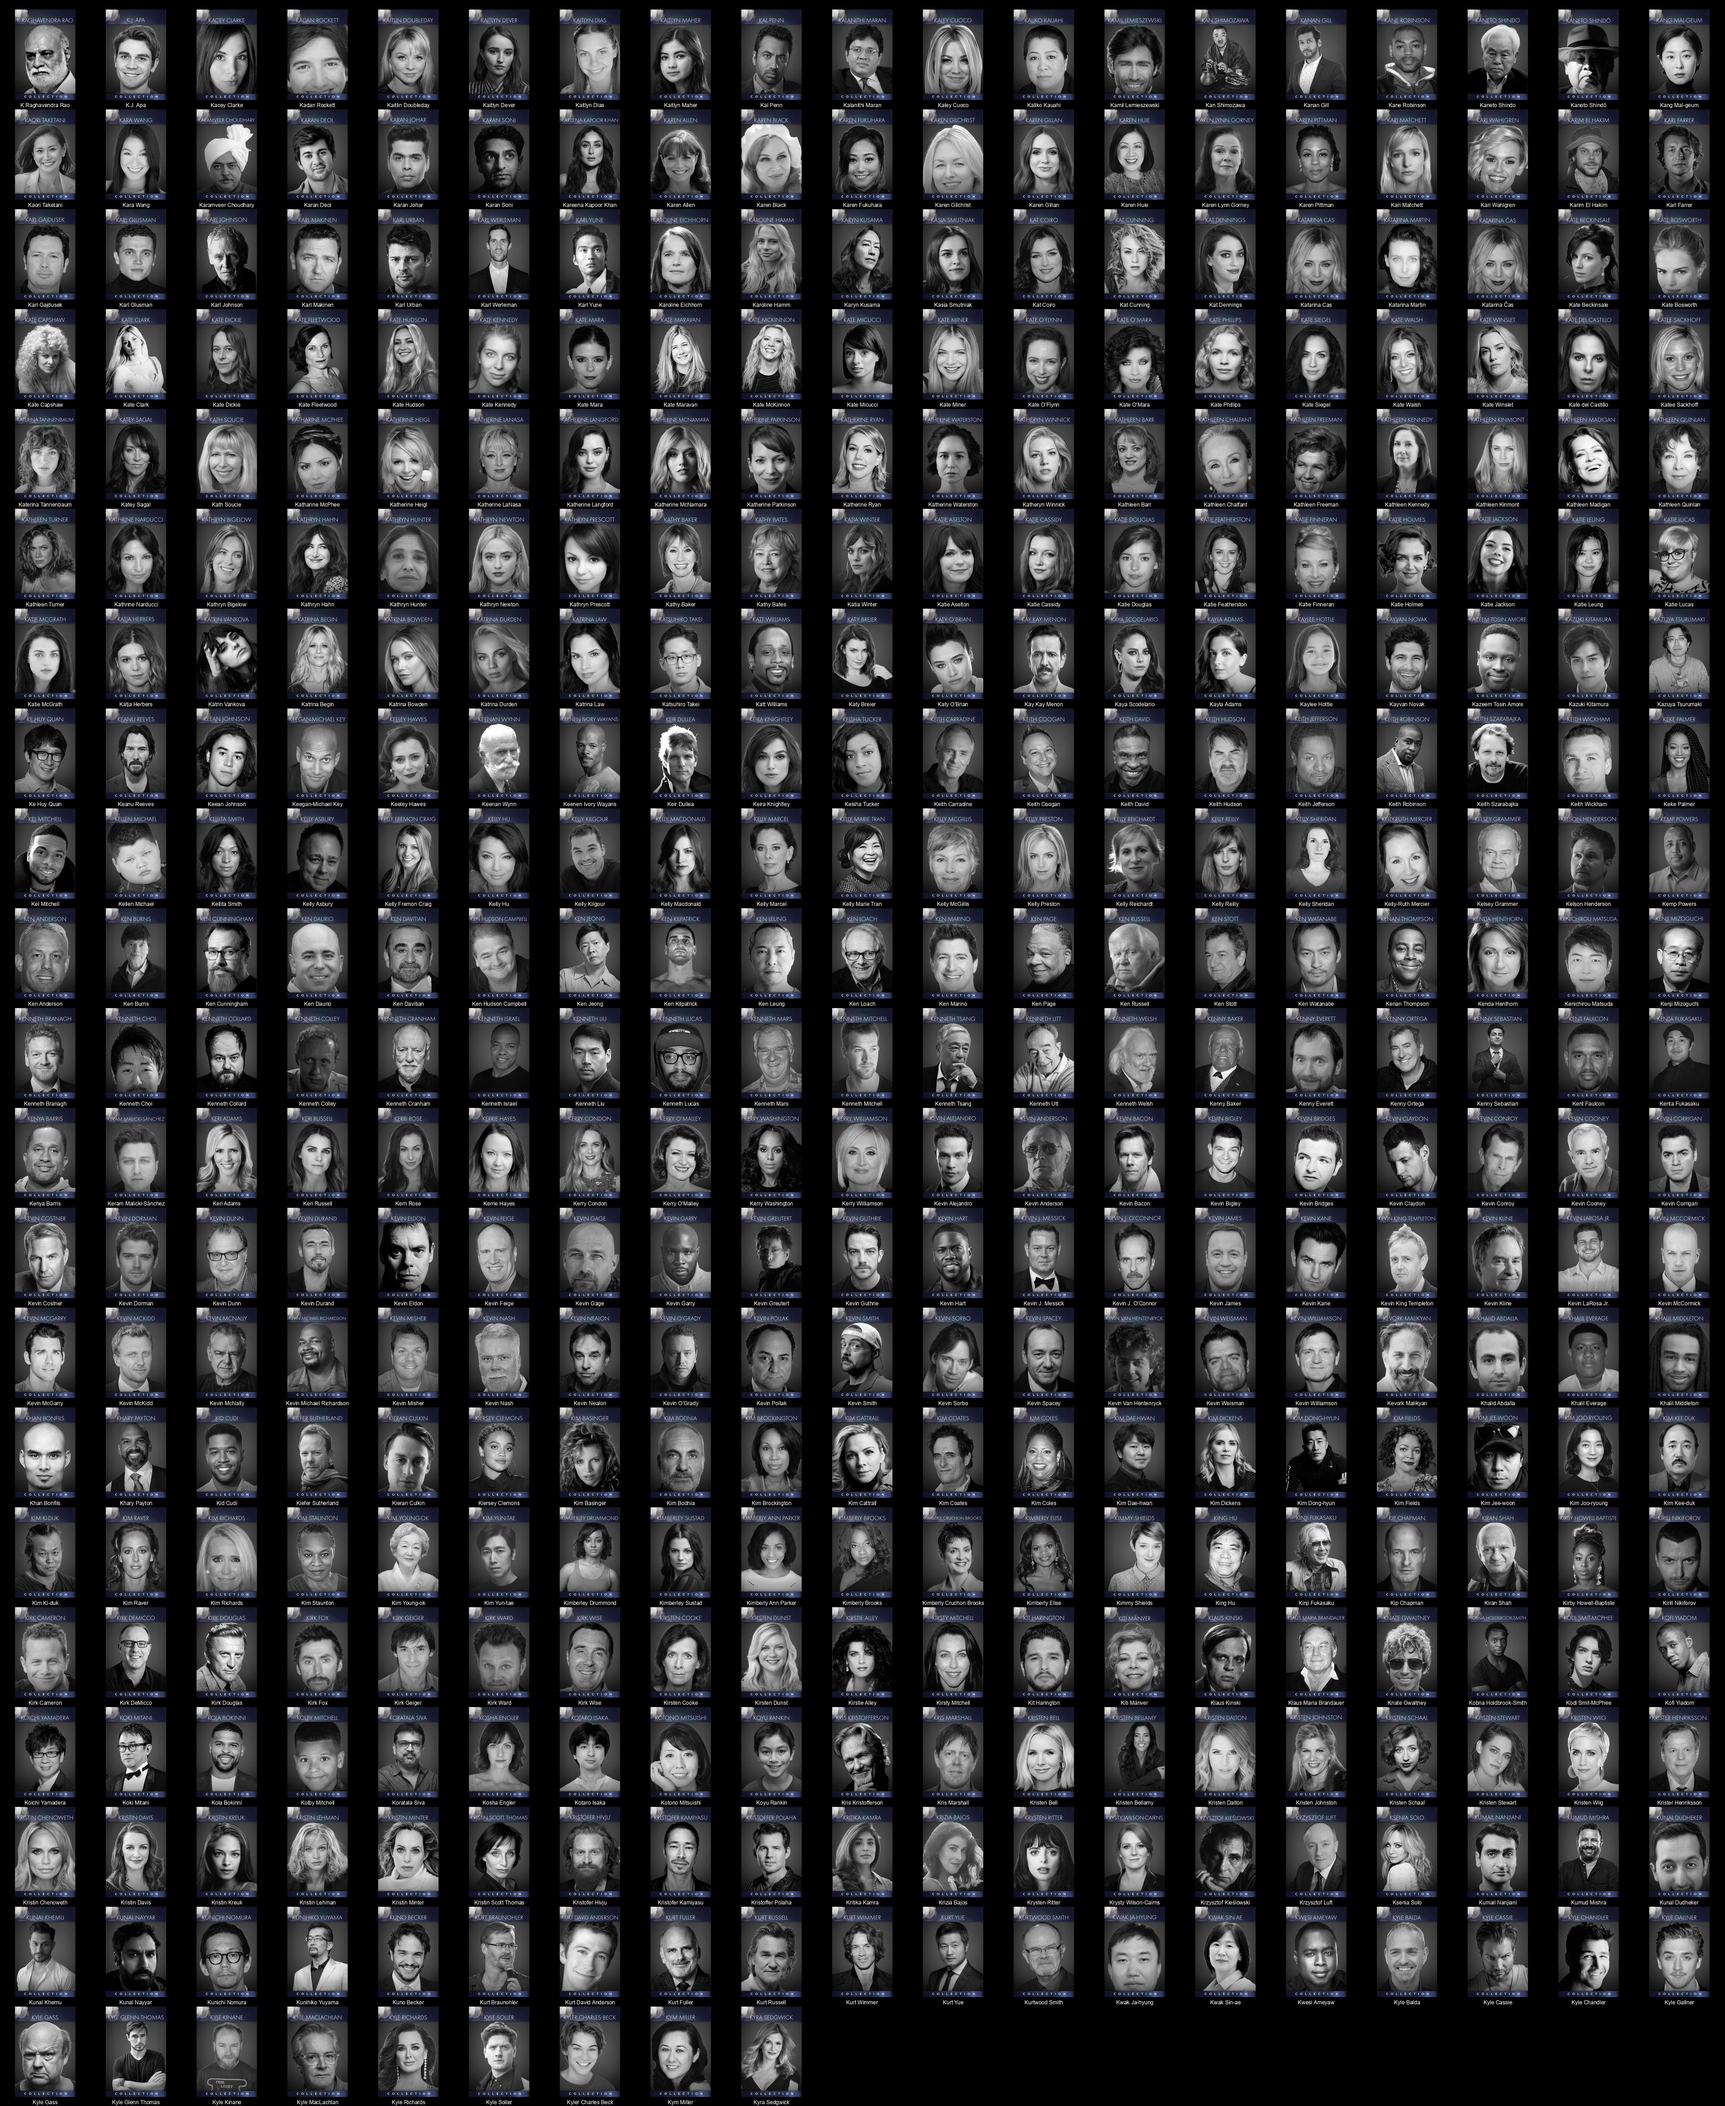
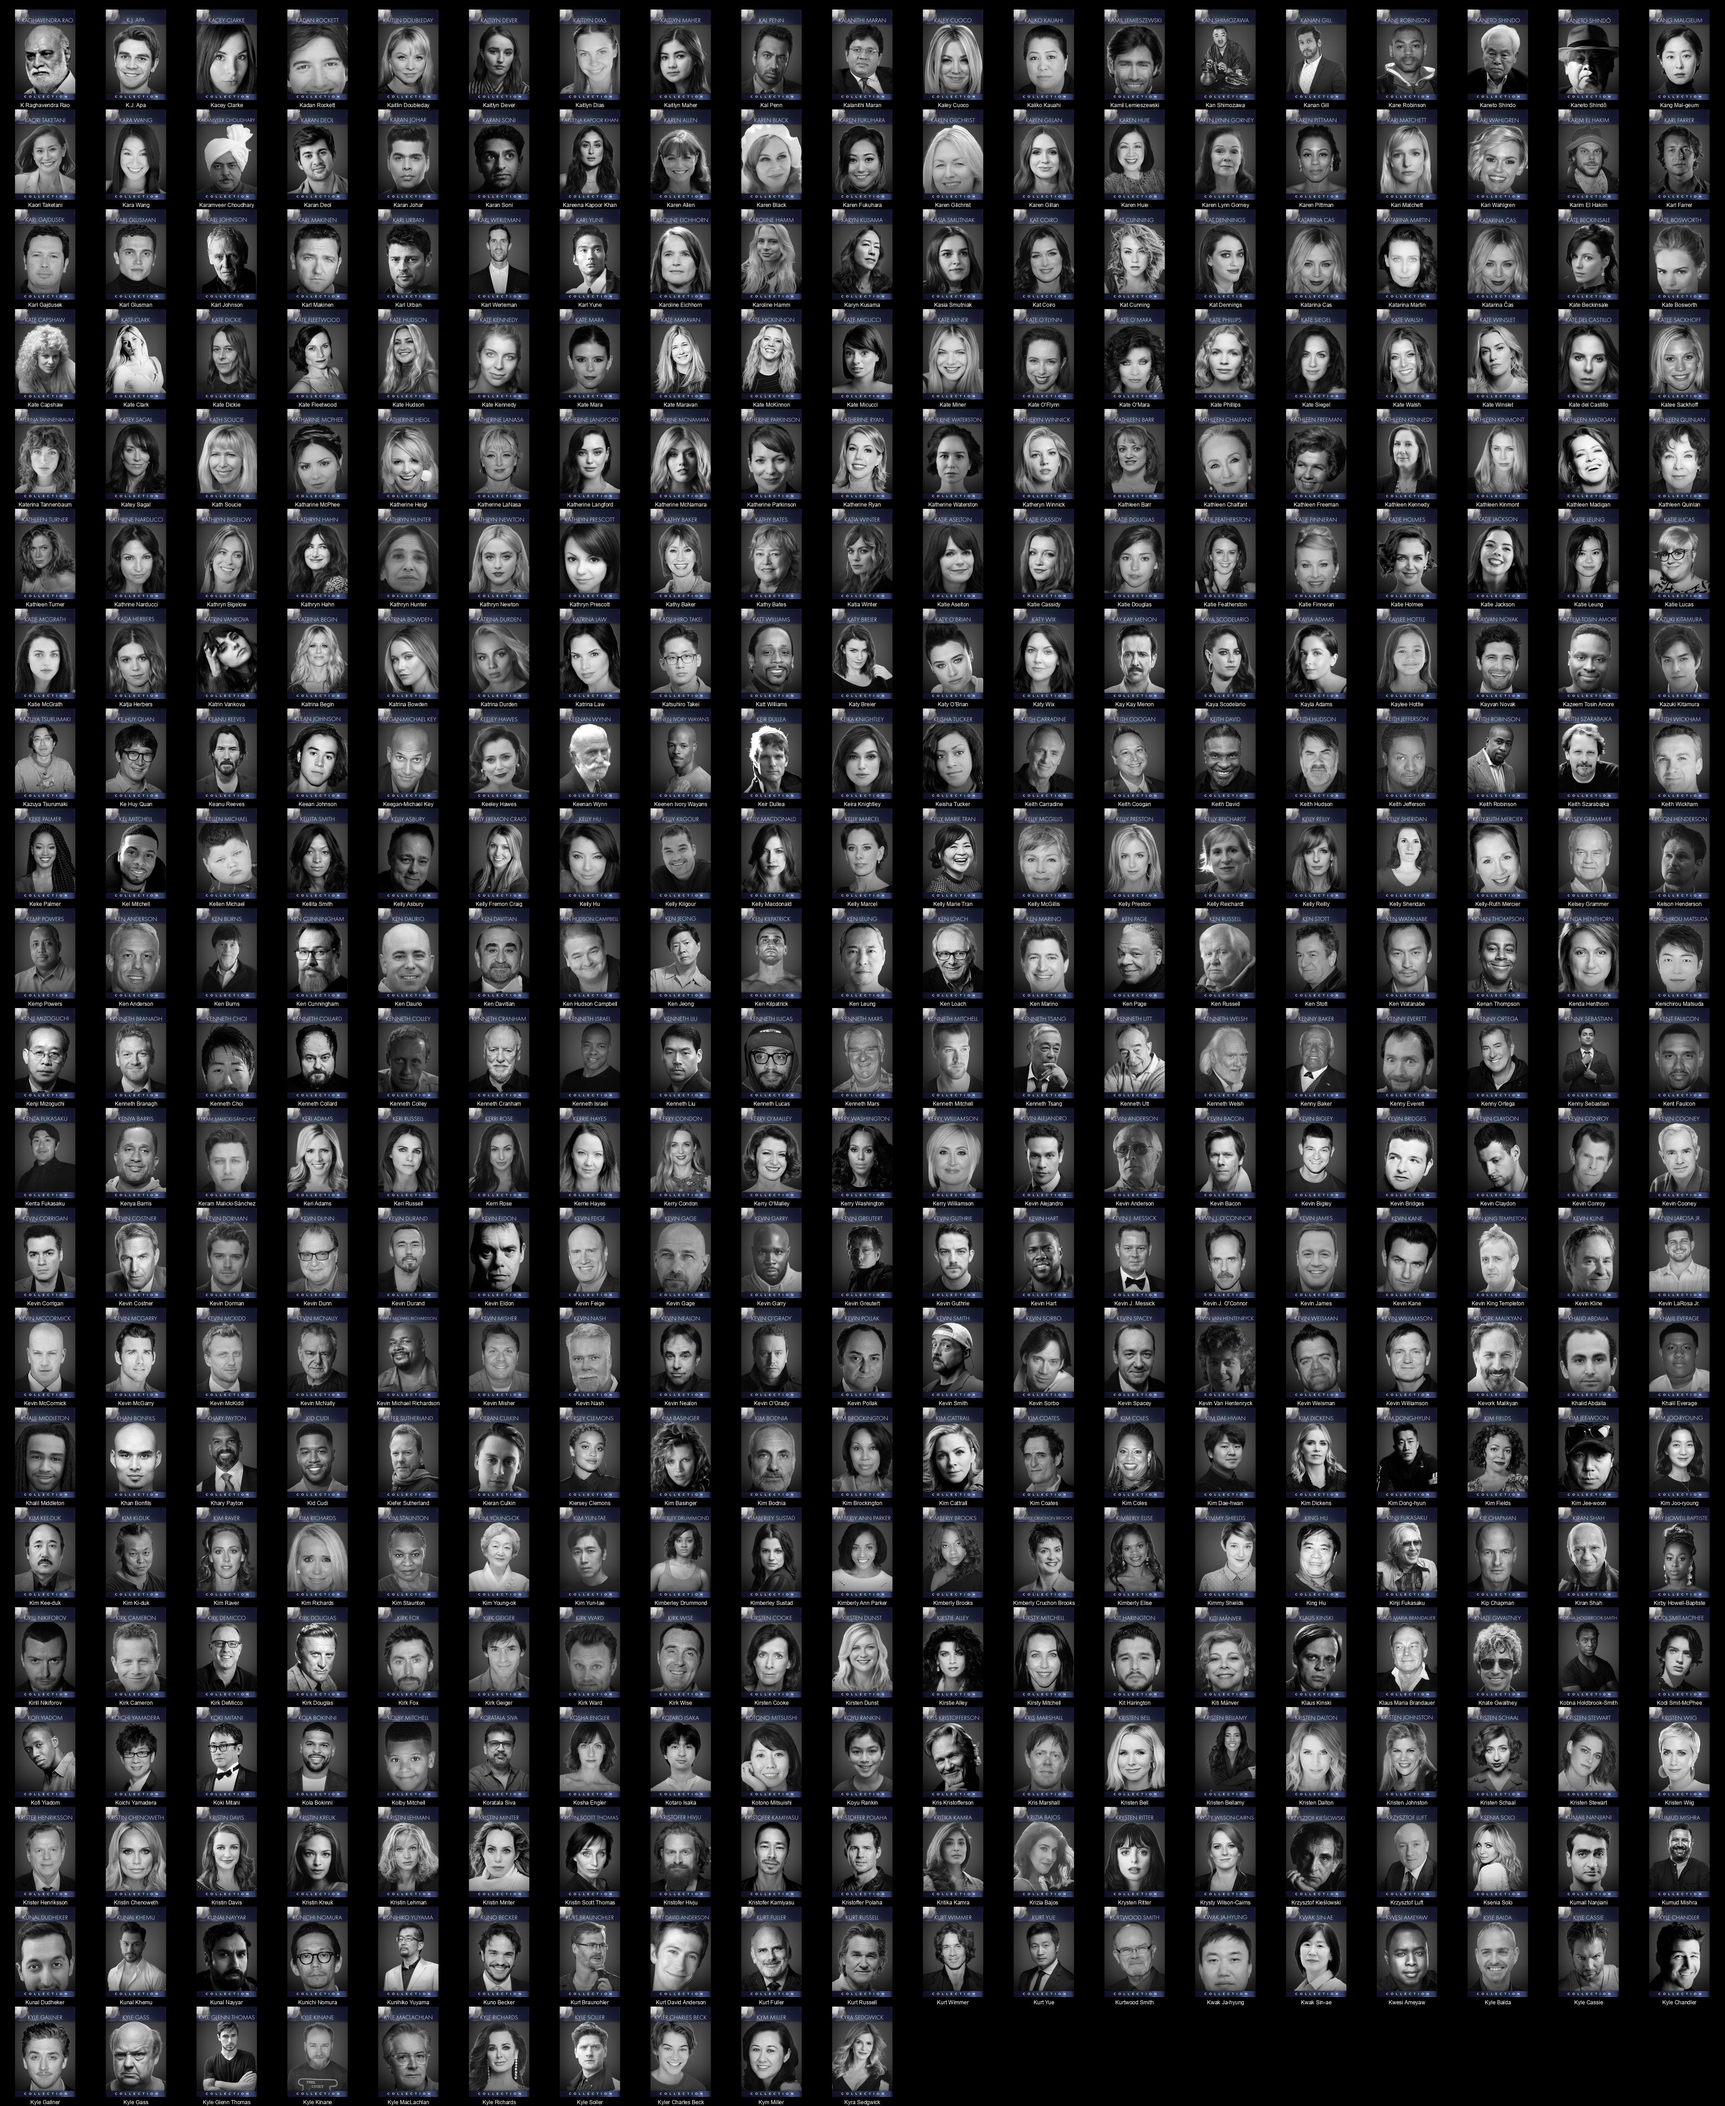
Readme Update

Changed region(s): [[0.0, 0.2812, 0.9937, 1.0]]

diff --git a/README.md b/README.md
@@ -1,4 +1,4 @@
-# Plex Meta Manager People - DIIIVOY (diiivoy) (8699 Images)
+# Plex Meta Manager People - DIIIVOY (diiivoy) (8702 Images)
 
 <details><summary><a href="'">' (1 Images)</a></summary>
 
@@ -2341,7 +2341,7 @@
 * [Débora Nascimento](https://raw.githubusercontent.com/meisnate12/Plex-Meta-Manager-People-diiivoy/master/D/Images/D%C3%A9bora%20Nascimento.jpg)
 * [Díana Bermudez](https://raw.githubusercontent.com/meisnate12/Plex-Meta-Manager-People-diiivoy/master/D/Images/D%C3%ADana%20Bermudez.jpg)
 </details>
-<details><summary><a href="E">E (320 Images)</a></summary>
+<details><summary><a href="E">E (321 Images)</a></summary>
 
 * [E.G. Marshall](https://raw.githubusercontent.com/meisnate12/Plex-Meta-Manager-People-diiivoy/master/E/Images/E.G.%20Marshall.jpg)
 * [E.J. Bonilla](https://raw.githubusercontent.com/meisnate12/Plex-Meta-Manager-People-diiivoy/master/E/Images/E.J.%20Bonilla.jpg)
@@ -2479,6 +2479,7 @@
 * [Elliott Gould](https://raw.githubusercontent.com/meisnate12/Plex-Meta-Manager-People-diiivoy/master/E/Images/Elliott%20Gould.jpg)
 * [Ellory Elkayem](https://raw.githubusercontent.com/meisnate12/Plex-Meta-Manager-People-diiivoy/master/E/Images/Ellory%20Elkayem.jpg)
 * [Elmer Bernstein](https://raw.githubusercontent.com/meisnate12/Plex-Meta-Manager-People-diiivoy/master/E/Images/Elmer%20Bernstein.jpg)
+* [Elodie Yung](https://raw.githubusercontent.com/meisnate12/Plex-Meta-Manager-People-diiivoy/master/E/Images/Elodie%20Yung.jpg)
 * [Eloise Mumford](https://raw.githubusercontent.com/meisnate12/Plex-Meta-Manager-People-diiivoy/master/E/Images/Eloise%20Mumford.jpg)
 * [Elsa Raven](https://raw.githubusercontent.com/meisnate12/Plex-Meta-Manager-People-diiivoy/master/E/Images/Elsa%20Raven.jpg)
 * [Elsie Fisher](https://raw.githubusercontent.com/meisnate12/Plex-Meta-Manager-People-diiivoy/master/E/Images/Elsie%20Fisher.jpg)
@@ -4522,7 +4523,7 @@
 * [Jürgen Prochnow](https://raw.githubusercontent.com/meisnate12/Plex-Meta-Manager-People-diiivoy/master/J/Images/J%C3%BCrgen%20Prochnow.jpg)
 * [Jūzō Itami](https://raw.githubusercontent.com/meisnate12/Plex-Meta-Manager-People-diiivoy/master/J/Images/J%C5%ABz%C5%8D%20Itami.jpg)
 </details>
-<details><summary><a href="K">K (389 Images)</a></summary>
+<details><summary><a href="K">K (390 Images)</a></summary>
 
 * [K Raghavendra Rao](https://raw.githubusercontent.com/meisnate12/Plex-Meta-Manager-People-diiivoy/master/K/Images/K%20Raghavendra%20Rao.jpg)
 * [K.J. Apa](https://raw.githubusercontent.com/meisnate12/Plex-Meta-Manager-People-diiivoy/master/K/Images/K.J.%20Apa.jpg)
@@ -4649,6 +4650,7 @@
 * [Katt Williams](https://raw.githubusercontent.com/meisnate12/Plex-Meta-Manager-People-diiivoy/master/K/Images/Katt%20Williams.jpg)
 * [Katy Breier](https://raw.githubusercontent.com/meisnate12/Plex-Meta-Manager-People-diiivoy/master/K/Images/Katy%20Breier.jpg)
 * [Katy O'Brian](https://raw.githubusercontent.com/meisnate12/Plex-Meta-Manager-People-diiivoy/master/K/Images/Katy%20O%27Brian.jpg)
+* [Katy Wix](https://raw.githubusercontent.com/meisnate12/Plex-Meta-Manager-People-diiivoy/master/K/Images/Katy%20Wix.jpg)
 * [Kay Kay Menon](https://raw.githubusercontent.com/meisnate12/Plex-Meta-Manager-People-diiivoy/master/K/Images/Kay%20Kay%20Menon.jpg)
 * [Kaya Scodelario](https://raw.githubusercontent.com/meisnate12/Plex-Meta-Manager-People-diiivoy/master/K/Images/Kaya%20Scodelario.jpg)
 * [Kayla Adams](https://raw.githubusercontent.com/meisnate12/Plex-Meta-Manager-People-diiivoy/master/K/Images/Kayla%20Adams.jpg)
@@ -4914,7 +4916,7 @@
 * [Kym Miller](https://raw.githubusercontent.com/meisnate12/Plex-Meta-Manager-People-diiivoy/master/K/Images/Kym%20Miller.jpg)
 * [Kyra Sedgwick](https://raw.githubusercontent.com/meisnate12/Plex-Meta-Manager-People-diiivoy/master/K/Images/Kyra%20Sedgwick.jpg)
 </details>
-<details><summary><a href="L">L (381 Images)</a></summary>
+<details><summary><a href="L">L (382 Images)</a></summary>
 
 * [L. Q. Jones](https://raw.githubusercontent.com/meisnate12/Plex-Meta-Manager-People-diiivoy/master/L/Images/L.%20Q.%20Jones.jpg)
 * [LL Cool J](https://raw.githubusercontent.com/meisnate12/Plex-Meta-Manager-People-diiivoy/master/L/Images/LL%20Cool%20J.jpg)
@@ -5278,6 +5280,7 @@
 * [Luke Kirby](https://raw.githubusercontent.com/meisnate12/Plex-Meta-Manager-People-diiivoy/master/L/Images/Luke%20Kirby.jpg)
 * [Luke Macfarlane](https://raw.githubusercontent.com/meisnate12/Plex-Meta-Manager-People-diiivoy/master/L/Images/Luke%20Macfarlane.jpg)
 * [Luke Mitchell](https://raw.githubusercontent.com/meisnate12/Plex-Meta-Manager-People-diiivoy/master/L/Images/Luke%20Mitchell.jpg)
+* [Luke Pasqualino](https://raw.githubusercontent.com/meisnate12/Plex-Meta-Manager-People-diiivoy/master/L/Images/Luke%20Pasqualino.jpg)
 * [Luke Perry](https://raw.githubusercontent.com/meisnate12/Plex-Meta-Manager-People-diiivoy/master/L/Images/Luke%20Perry.jpg)
 * [Luke Roberts](https://raw.githubusercontent.com/meisnate12/Plex-Meta-Manager-People-diiivoy/master/L/Images/Luke%20Roberts.jpg)
 * [Luke Wilson](https://raw.githubusercontent.com/meisnate12/Plex-Meta-Manager-People-diiivoy/master/L/Images/Luke%20Wilson.jpg)

diff --git a/K/README.md b/K/README.md
@@ -1,4 +1,4 @@
-# Plex Meta Manager People - DIIIVOY (diiivoy) - K (389 Images)
+# Plex Meta Manager People - DIIIVOY (diiivoy) - K (390 Images)
 ![Grid](grid.jpg)
 
 * [K Raghavendra Rao](https://raw.githubusercontent.com/meisnate12/Plex-Meta-Manager-People-diiivoy/master/K/Images/K%20Raghavendra%20Rao.jpg)
@@ -126,6 +126,7 @@
 * [Katt Williams](https://raw.githubusercontent.com/meisnate12/Plex-Meta-Manager-People-diiivoy/master/K/Images/Katt%20Williams.jpg)
 * [Katy Breier](https://raw.githubusercontent.com/meisnate12/Plex-Meta-Manager-People-diiivoy/master/K/Images/Katy%20Breier.jpg)
 * [Katy O'Brian](https://raw.githubusercontent.com/meisnate12/Plex-Meta-Manager-People-diiivoy/master/K/Images/Katy%20O%27Brian.jpg)
+* [Katy Wix](https://raw.githubusercontent.com/meisnate12/Plex-Meta-Manager-People-diiivoy/master/K/Images/Katy%20Wix.jpg)
 * [Kay Kay Menon](https://raw.githubusercontent.com/meisnate12/Plex-Meta-Manager-People-diiivoy/master/K/Images/Kay%20Kay%20Menon.jpg)
 * [Kaya Scodelario](https://raw.githubusercontent.com/meisnate12/Plex-Meta-Manager-People-diiivoy/master/K/Images/Kaya%20Scodelario.jpg)
 * [Kayla Adams](https://raw.githubusercontent.com/meisnate12/Plex-Meta-Manager-People-diiivoy/master/K/Images/Kayla%20Adams.jpg)

diff --git a/E/README.md b/E/README.md
@@ -1,4 +1,4 @@
-# Plex Meta Manager People - DIIIVOY (diiivoy) - E (320 Images)
+# Plex Meta Manager People - DIIIVOY (diiivoy) - E (321 Images)
 ![Grid](grid.jpg)
 
 * [E.G. Marshall](https://raw.githubusercontent.com/meisnate12/Plex-Meta-Manager-People-diiivoy/master/E/Images/E.G.%20Marshall.jpg)
@@ -137,6 +137,7 @@
 * [Elliott Gould](https://raw.githubusercontent.com/meisnate12/Plex-Meta-Manager-People-diiivoy/master/E/Images/Elliott%20Gould.jpg)
 * [Ellory Elkayem](https://raw.githubusercontent.com/meisnate12/Plex-Meta-Manager-People-diiivoy/master/E/Images/Ellory%20Elkayem.jpg)
 * [Elmer Bernstein](https://raw.githubusercontent.com/meisnate12/Plex-Meta-Manager-People-diiivoy/master/E/Images/Elmer%20Bernstein.jpg)
+* [Elodie Yung](https://raw.githubusercontent.com/meisnate12/Plex-Meta-Manager-People-diiivoy/master/E/Images/Elodie%20Yung.jpg)
 * [Eloise Mumford](https://raw.githubusercontent.com/meisnate12/Plex-Meta-Manager-People-diiivoy/master/E/Images/Eloise%20Mumford.jpg)
 * [Elsa Raven](https://raw.githubusercontent.com/meisnate12/Plex-Meta-Manager-People-diiivoy/master/E/Images/Elsa%20Raven.jpg)
 * [Elsie Fisher](https://raw.githubusercontent.com/meisnate12/Plex-Meta-Manager-People-diiivoy/master/E/Images/Elsie%20Fisher.jpg)

diff --git a/L/README.md b/L/README.md
@@ -1,4 +1,4 @@
-# Plex Meta Manager People - DIIIVOY (diiivoy) - L (381 Images)
+# Plex Meta Manager People - DIIIVOY (diiivoy) - L (382 Images)
 ![Grid](grid.jpg)
 
 * [L. Q. Jones](https://raw.githubusercontent.com/meisnate12/Plex-Meta-Manager-People-diiivoy/master/L/Images/L.%20Q.%20Jones.jpg)
@@ -363,6 +363,7 @@
 * [Luke Kirby](https://raw.githubusercontent.com/meisnate12/Plex-Meta-Manager-People-diiivoy/master/L/Images/Luke%20Kirby.jpg)
 * [Luke Macfarlane](https://raw.githubusercontent.com/meisnate12/Plex-Meta-Manager-People-diiivoy/master/L/Images/Luke%20Macfarlane.jpg)
 * [Luke Mitchell](https://raw.githubusercontent.com/meisnate12/Plex-Meta-Manager-People-diiivoy/master/L/Images/Luke%20Mitchell.jpg)
+* [Luke Pasqualino](https://raw.githubusercontent.com/meisnate12/Plex-Meta-Manager-People-diiivoy/master/L/Images/Luke%20Pasqualino.jpg)
 * [Luke Perry](https://raw.githubusercontent.com/meisnate12/Plex-Meta-Manager-People-diiivoy/master/L/Images/Luke%20Perry.jpg)
 * [Luke Roberts](https://raw.githubusercontent.com/meisnate12/Plex-Meta-Manager-People-diiivoy/master/L/Images/Luke%20Roberts.jpg)
 * [Luke Wilson](https://raw.githubusercontent.com/meisnate12/Plex-Meta-Manager-People-diiivoy/master/L/Images/Luke%20Wilson.jpg)
